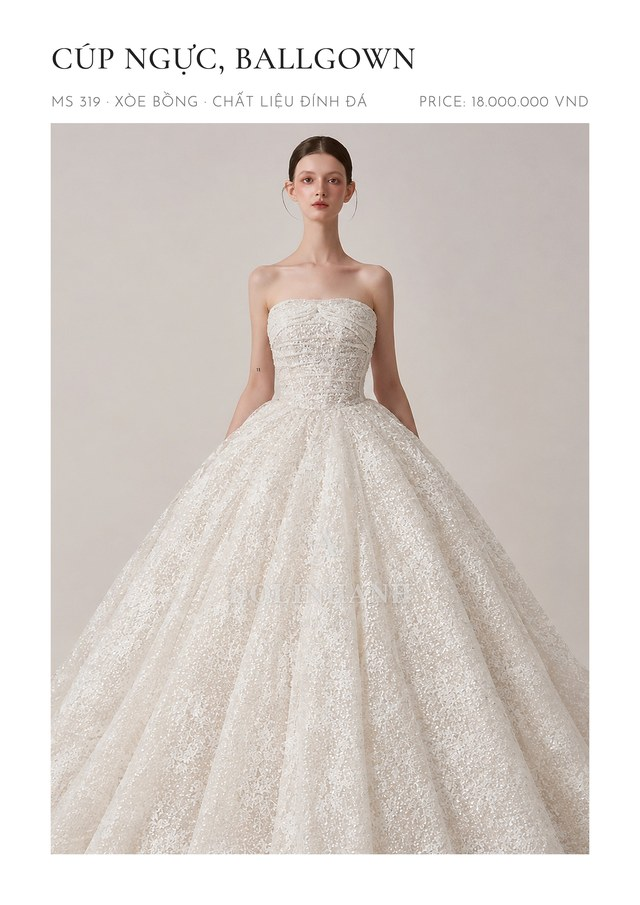
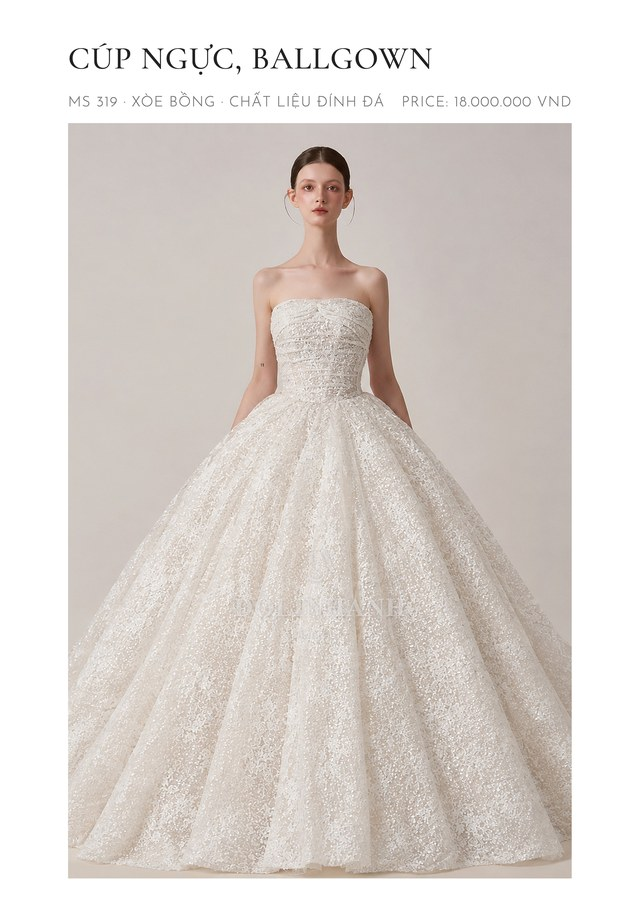
Thẻ giá MS 31, 335, 319 kiểu mới: để trọn váy, không cắt gấu

diff --git a/wedding-dress-prices.html b/wedding-dress-prices.html
@@ -254,7 +254,7 @@
 <a class="the" data-dang="mermaid" data-coso="hcm" href="anh/gia-tung-vay/MS554.jpg"><img src="anh/gia-tung-vay/MS554.jpg" loading="lazy" alt="MS 554"></a>
 <a class="the" data-dang="mermaid" data-coso="hcm" href="anh/gia-tung-vay/MS569.jpg"><img src="anh/gia-tung-vay/MS569.jpg" loading="lazy" alt="MS 569"></a>
 <a class="the" data-dang="a-line" data-coso="hcm" href="anh/gia-tung-vay/MS424.jpg"><img src="anh/gia-tung-vay/MS424.jpg" loading="lazy" alt="MS 424"></a>
-<a class="the" data-dang="a-line" data-coso="hn" href="anh/gia-tung-vay/MS031.jpg?v=2"><img src="anh/gia-tung-vay/MS031.jpg?v=2" loading="lazy" alt="MS 31"></a>
+<a class="the" data-dang="a-line" data-coso="hn" href="anh/gia-tung-vay/MS031.jpg?v=3"><img src="anh/gia-tung-vay/MS031.jpg?v=3" loading="lazy" alt="MS 31"></a>
 <a class="the" data-dang="a-line" data-coso="hcm" href="anh/gia-tung-vay/MS059.jpg"><img src="anh/gia-tung-vay/MS059.jpg" loading="lazy" alt="MS 59"></a>
 <a class="the" data-dang="a-line" data-coso="hcm" href="anh/gia-tung-vay/MS060.jpg"><img src="anh/gia-tung-vay/MS060.jpg" loading="lazy" alt="MS 60"></a>
 <a class="the" data-dang="a-line" data-coso="hcm" href="anh/gia-tung-vay/MS061.jpg"><img src="anh/gia-tung-vay/MS061.jpg" loading="lazy" alt="MS 61"></a>
@@ -314,7 +314,7 @@
 <a class="the" data-dang="a-line" data-coso="hn" href="anh/gia-tung-vay/MS322.jpg"><img src="anh/gia-tung-vay/MS322.jpg" loading="lazy" alt="MS 322"></a>
 <a class="the" data-dang="a-line" data-coso="hn" href="anh/gia-tung-vay/MS327.jpg"><img src="anh/gia-tung-vay/MS327.jpg" loading="lazy" alt="MS 327"></a>
 <a class="the" data-dang="a-line" data-coso="hn" href="anh/gia-tung-vay/MS332.jpg"><img src="anh/gia-tung-vay/MS332.jpg" loading="lazy" alt="MS 332"></a>
-<a class="the" data-dang="a-line" data-coso="hn" href="anh/gia-tung-vay/MS335.jpg"><img src="anh/gia-tung-vay/MS335.jpg" loading="lazy" alt="MS 335"></a>
+<a class="the" data-dang="a-line" data-coso="hn" href="anh/gia-tung-vay/MS335.jpg?v=2"><img src="anh/gia-tung-vay/MS335.jpg?v=2" loading="lazy" alt="MS 335"></a>
 <a class="the" data-dang="a-line" data-coso="hn" href="anh/gia-tung-vay/MS336.jpg"><img src="anh/gia-tung-vay/MS336.jpg" loading="lazy" alt="MS 336"></a>
 <a class="the" data-dang="a-line" data-coso="hn" href="anh/gia-tung-vay/MS348.jpg"><img src="anh/gia-tung-vay/MS348.jpg" loading="lazy" alt="MS 348"></a>
 <a class="the" data-dang="a-line" data-coso="hn" href="anh/gia-tung-vay/MS352.jpg"><img src="anh/gia-tung-vay/MS352.jpg" loading="lazy" alt="MS 352"></a>
@@ -443,7 +443,7 @@
 <a class="the" data-dang="ballgown" data-coso="hcm" href="anh/gia-tung-vay/MS306.jpg"><img src="anh/gia-tung-vay/MS306.jpg" loading="lazy" alt="MS 306"></a>
 <a class="the" data-dang="ballgown" data-coso="hn" href="anh/gia-tung-vay/MS309.jpg"><img src="anh/gia-tung-vay/MS309.jpg" loading="lazy" alt="MS 309"></a>
 <a class="the" data-dang="ballgown" data-coso="hn" href="anh/gia-tung-vay/MS313.jpg"><img src="anh/gia-tung-vay/MS313.jpg" loading="lazy" alt="MS 313"></a>
-<a class="the" data-dang="ballgown" data-coso="hn" href="anh/gia-tung-vay/MS319.jpg"><img src="anh/gia-tung-vay/MS319.jpg" loading="lazy" alt="MS 319"></a>
+<a class="the" data-dang="ballgown" data-coso="hn" href="anh/gia-tung-vay/MS319.jpg?v=2"><img src="anh/gia-tung-vay/MS319.jpg?v=2" loading="lazy" alt="MS 319"></a>
 <a class="the" data-dang="ballgown" data-coso="hn" href="anh/gia-tung-vay/MS321.jpg?v=2"><img src="anh/gia-tung-vay/MS321.jpg?v=2" loading="lazy" alt="MS 321"></a>
 <a class="the" data-dang="ballgown" data-coso="hn" href="anh/gia-tung-vay/MS324.jpg"><img src="anh/gia-tung-vay/MS324.jpg" loading="lazy" alt="MS 324"></a>
 <a class="the" data-dang="ballgown" data-coso="hn" href="anh/gia-tung-vay/MS325.jpg"><img src="anh/gia-tung-vay/MS325.jpg" loading="lazy" alt="MS 325"></a>
